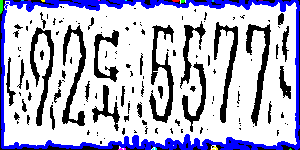
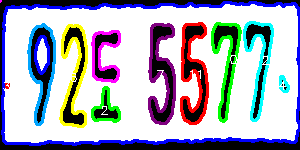
코드 수정 17:54
이진화 알고리즘을 적응형 > 오츠의 알고리즘으로 변경
결과: 노이즈가 줄어들어 윤곽선 검출에 도움이 됨.
남은 문제: 더욱 정밀하게 글자 후보 개수를 측정할 필요가 있음. 숫자는 쉽게 구별하나 누, 도와 같이 사이가 떨어진 한글 문자를 한 문자로 인식하지 못함. 또한, 관찰 결과 숫자의 크기는 1000~2000 사이로 측정됨.

diff --git a/src/plate_processor.py b/src/plate_processor.py
@@ -95,11 +95,38 @@ def contrast_maximize(gray_plate):
 def threshold_plate(enhanced_plate):
     blurred = cv2.GaussianBlur(enhanced_plate, (3,3), 0)
     thresh = cv2.adaptiveThreshold(blurred, 255, cv2.ADAPTIVE_THRESH_GAUSSIAN_C, cv2.THRESH_BINARY, 11, 2)
+    _, thresh_otsu = cv2.threshold(blurred, 0, 255, cv2.THRESH_BINARY + cv2.THRESH_OTSU)
     # 임계처리 후 노이즈 조정
     k = cv2.getStructuringElement(cv2.MORPH_RECT, (2,2))
     #cv2.morphologyEx(blurred, cv2.MORPH_OPEN, k)
     cv2.erode(blurred, k)
-    return thresh
+
+    plt.figure(figsize=(16, 4))
+
+    plt.subplot(1, 4, 1)
+    plt.imshow(enhanced_plate, cmap='gray')
+    plt.title('Enhanced Plate')
+    plt.axis('off')
+
+    plt.subplot(1, 4, 2)
+    plt.imshow(blurred, cmap='gray')
+    plt.title('Blurred')
+    plt.axis('off')
+
+    plt.subplot(1, 4, 3)
+    plt.imshow(thresh, cmap='gray')
+    plt.title('Adaptive Threshold')
+    plt.axis('off')
+
+    plt.subplot(1, 4, 4)
+    plt.imshow(thresh_otsu, cmap='gray')
+    plt.title('Otsu Threshold')
+    plt.axis('off')
+
+    plt.tight_layout()
+    plt.show()
+
+    return thresh, thresh_otsu
 
 # 윤곽선 처리
 def find_contour(thresh):
@@ -180,7 +207,7 @@ def prepare_for_next_step(contours):
     potential_chars = 0
     for contour in contours:
         area = cv2.contourArea(contour)
-        if 30 < area < 2000:  # 글자 크기 범위 추정
+        if 1000 < area < 2000:  # 글자 크기 범위 추정
             potential_chars += 1
     print(f"잠재적 글자 후보: {potential_chars}개")
 
@@ -215,7 +242,7 @@ def process_extracted_plates(plate_name):
     enhanced_plate = contrast_maximize(gray_plate)
 
     # 임계처리
-    thresh_plate = threshold_plate(enhanced_plate)
+    thresh_adaptive, thresh_plate = threshold_plate(enhanced_plate)
 
     # 윤곽선 검출
     contours, contour_result = find_contour(thresh_plate)
